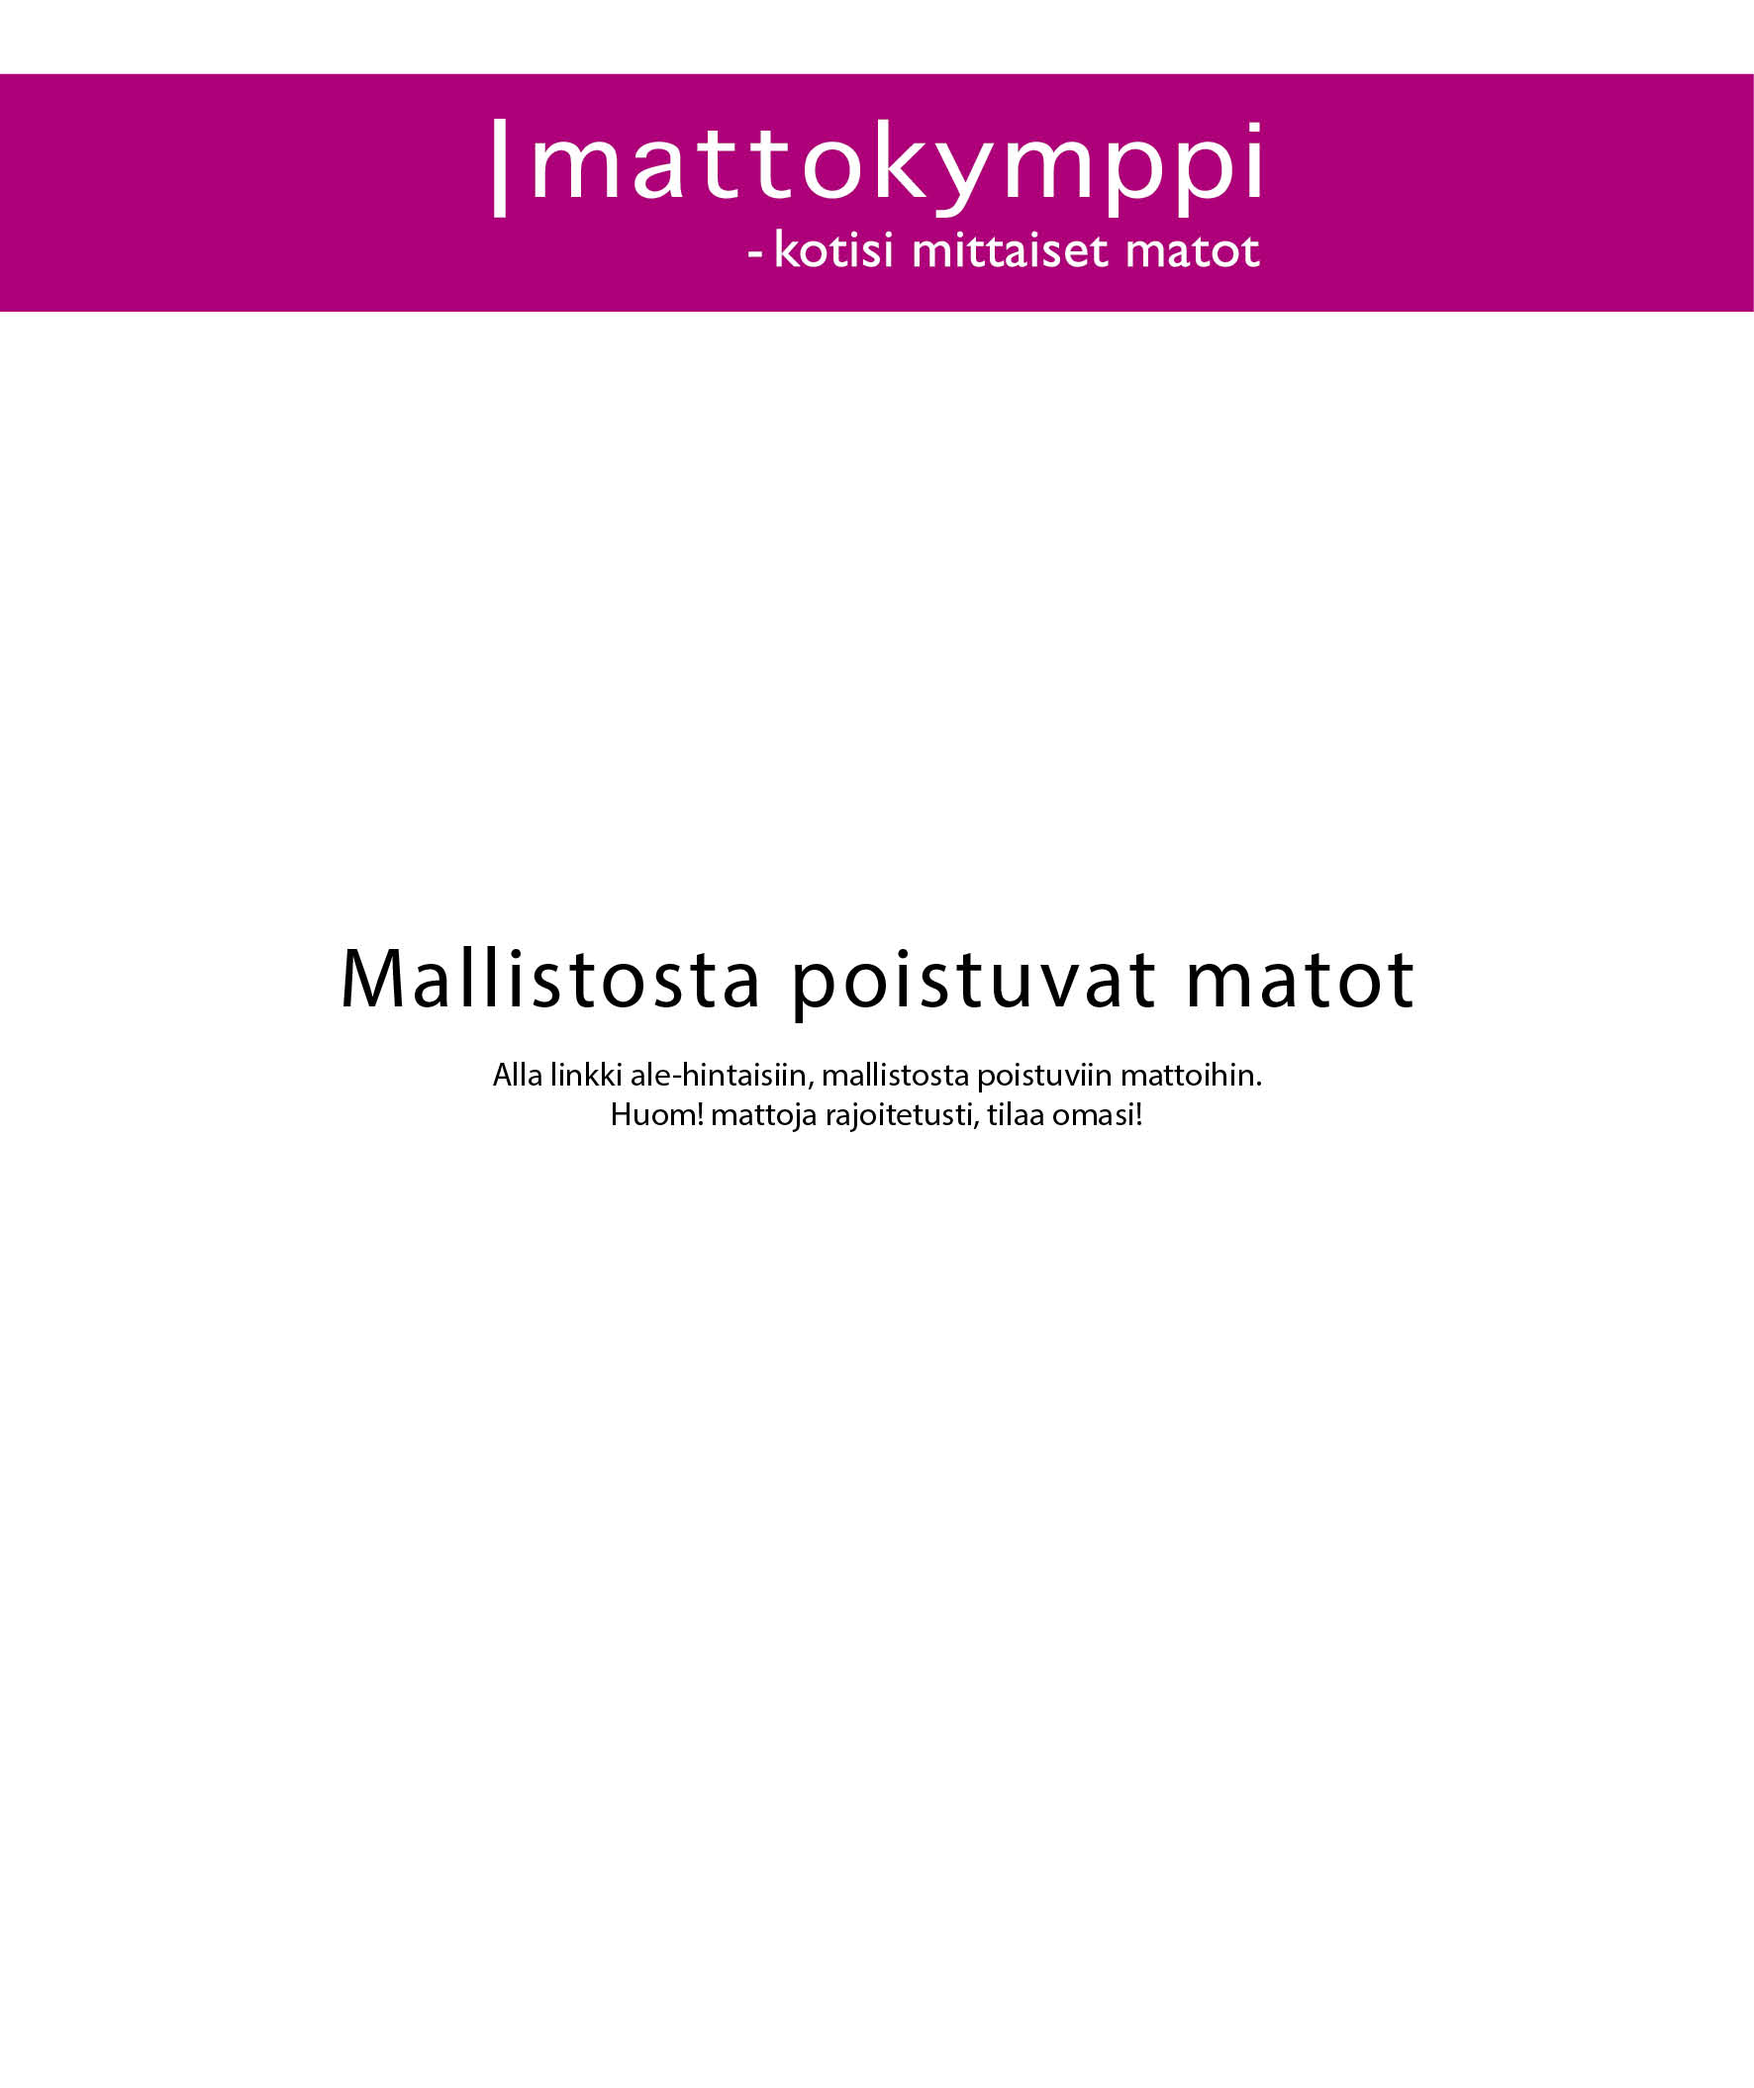
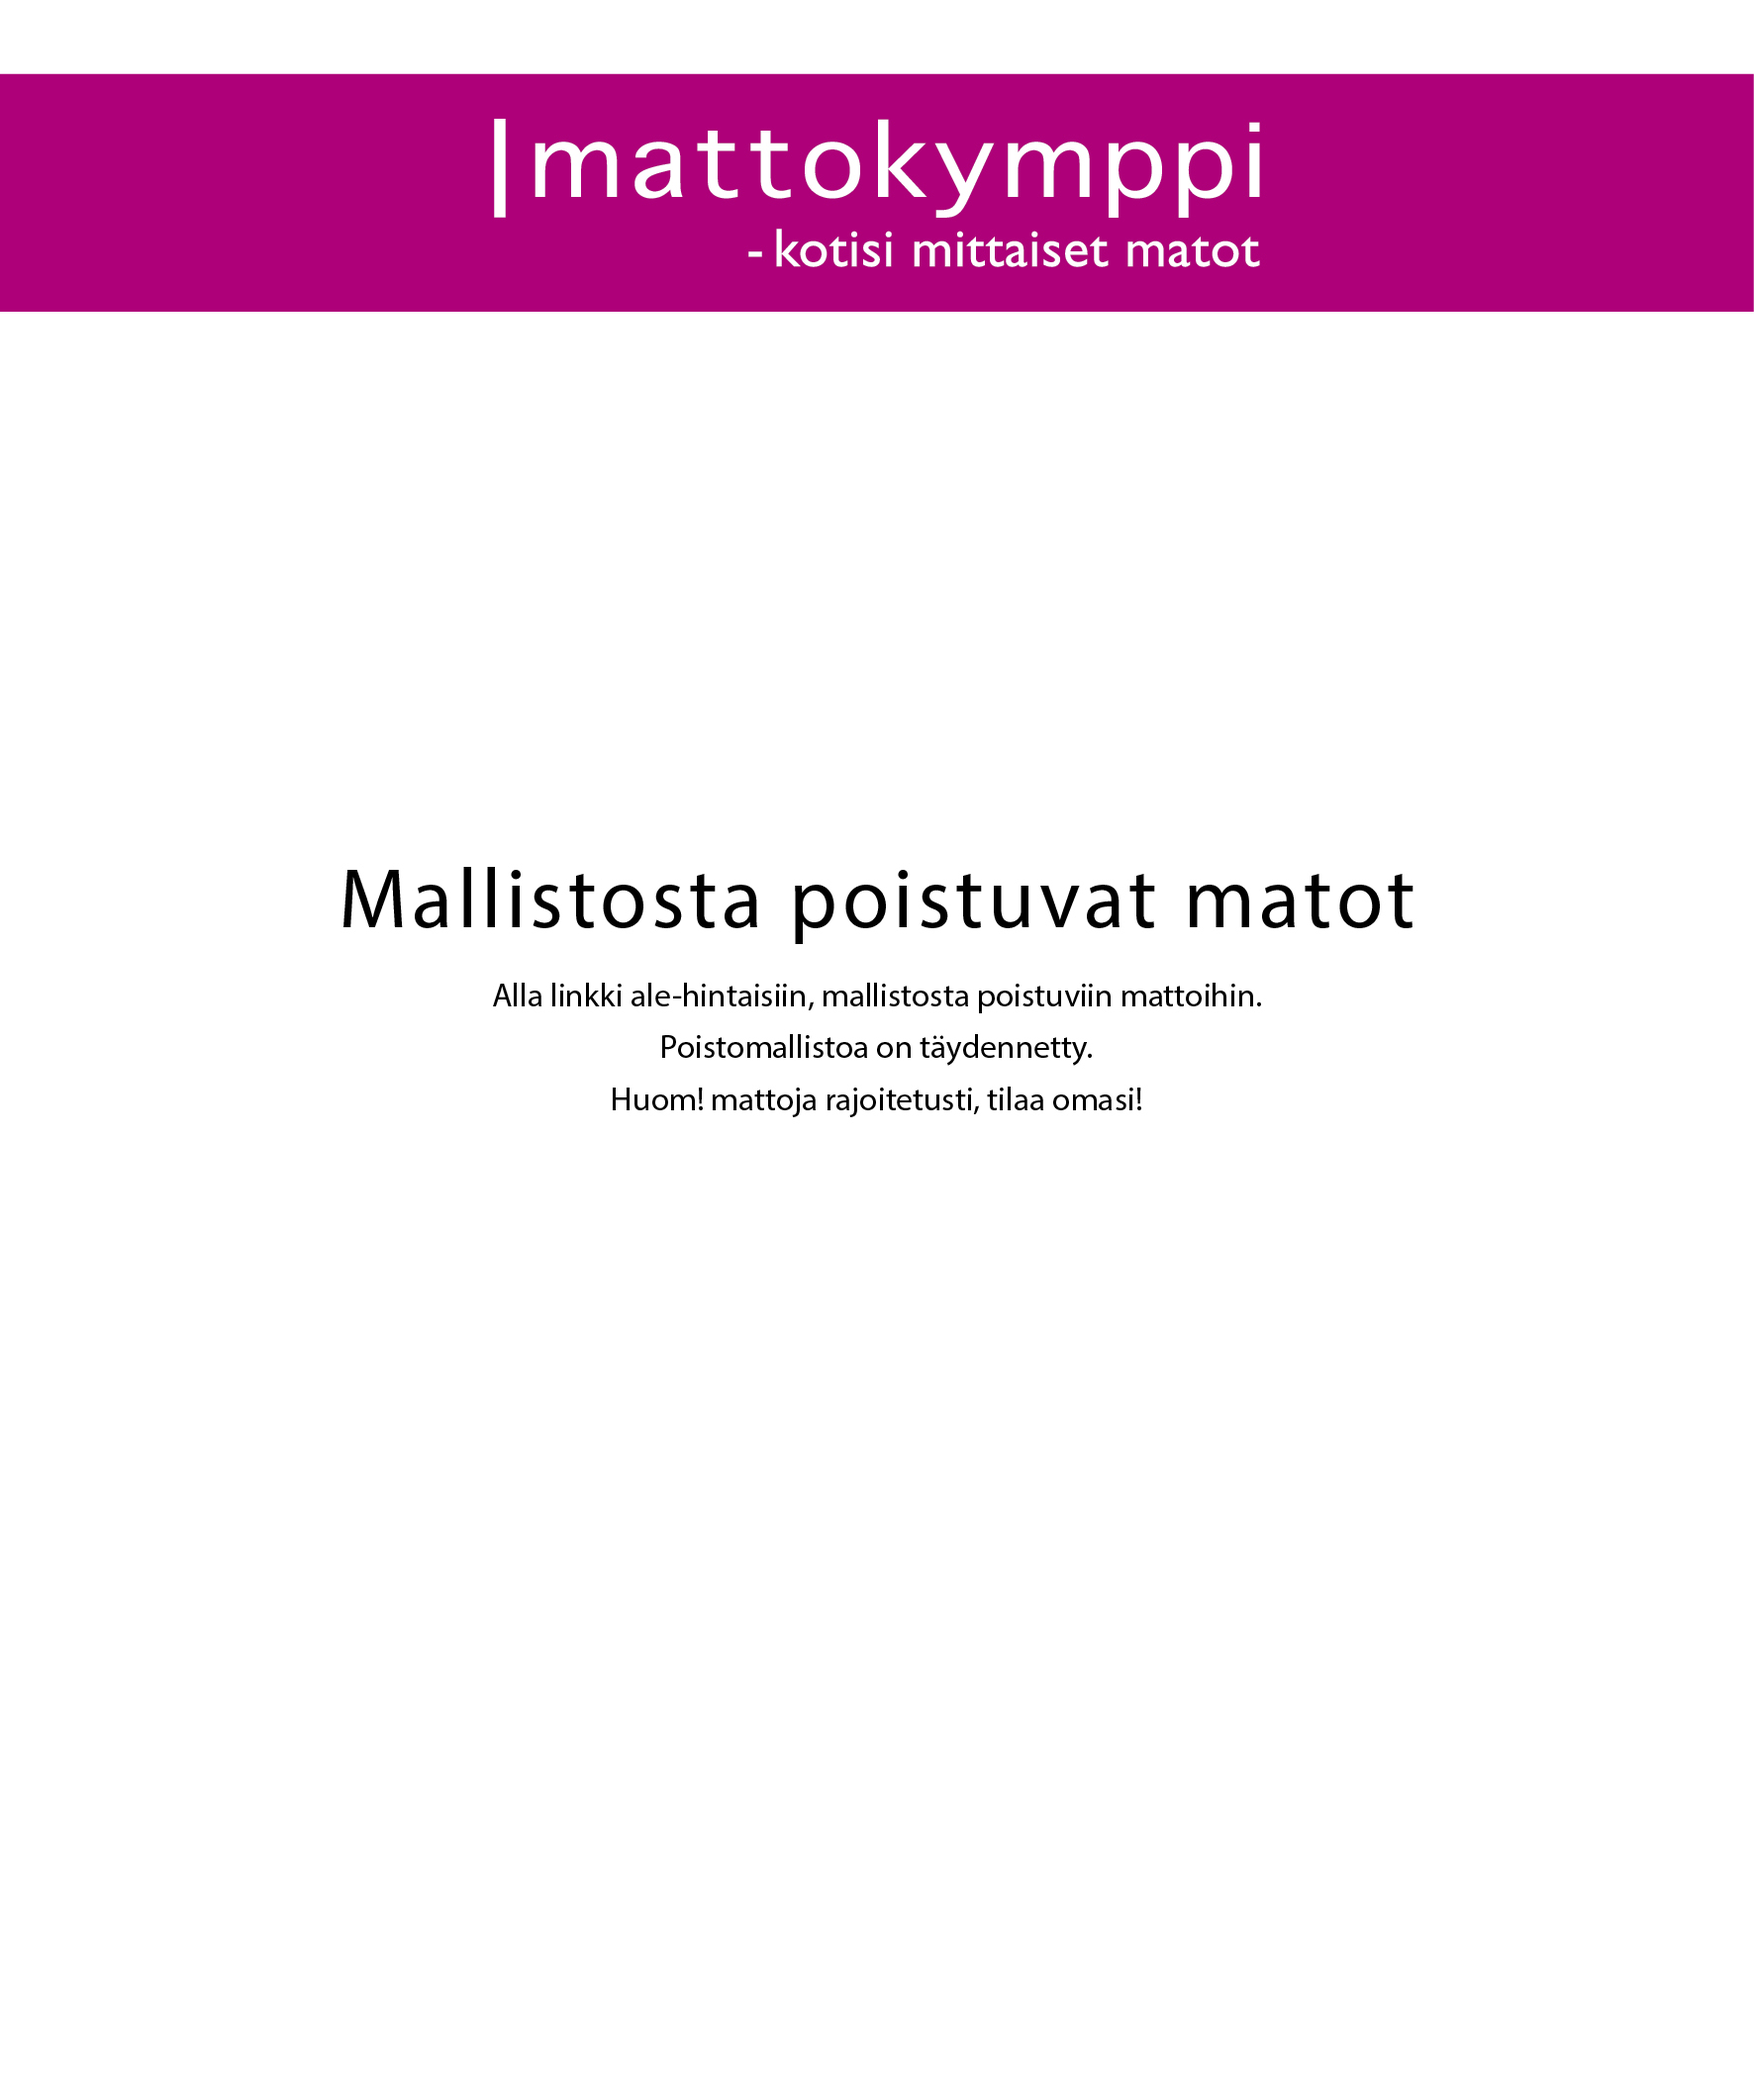
päivitys

Changed region(s): [[0.1862, 0.4005, 0.807, 0.5545]]

diff --git a/index-web-resources/css/idGeneratedStyles.css b/index-web-resources/css/idGeneratedStyles.css
@@ -44,19 +44,19 @@ span.CharOverride-1 {
 }
 #_idContainer000 {
 	display:inline-block;
-	height:760px;
+	height:639px;
 	overflow:hidden;
 	width:638px;
 }
 img._idGenObjectAttribute-1 {
-	-ms-transform:translate(0.000%,0.000%) rotate(0.000deg) skew(0.000deg) scale(1.000,1.000);
+	-ms-transform:translate(0.000%,-4.213%) rotate(0.000deg) skew(0.000deg) scale(1.000,1.188);
 	-ms-transform-origin:0% 0%;
-	-webkit-transform:translate(0.000%,0.000%) rotate(0.000deg) skew(0.000deg) scale(1.000,1.000);
+	-webkit-transform:translate(0.000%,-4.213%) rotate(0.000deg) skew(0.000deg) scale(1.000,1.188);
 	-webkit-transform-origin:0% 0%;
 	height:100.00%;
 	min-width:100%;
-	transform:translate(0.000%,0.000%) rotate(0.000deg) skew(0.000deg) scale(1.000,1.000);
-	transform:translate(0.000%,0.000%) rotate(0.000deg) skew(0.000deg) scale(1.000,1.000);
+	transform:translate(0.000%,-4.213%) rotate(0.000deg) skew(0.000deg) scale(1.000,1.188);
+	transform:translate(0.000%,-4.213%) rotate(0.000deg) skew(0.000deg) scale(1.000,1.188);
 	transform-origin:0% 0%;
 	transform-origin:0% 0%;
 	width:100.00%;
